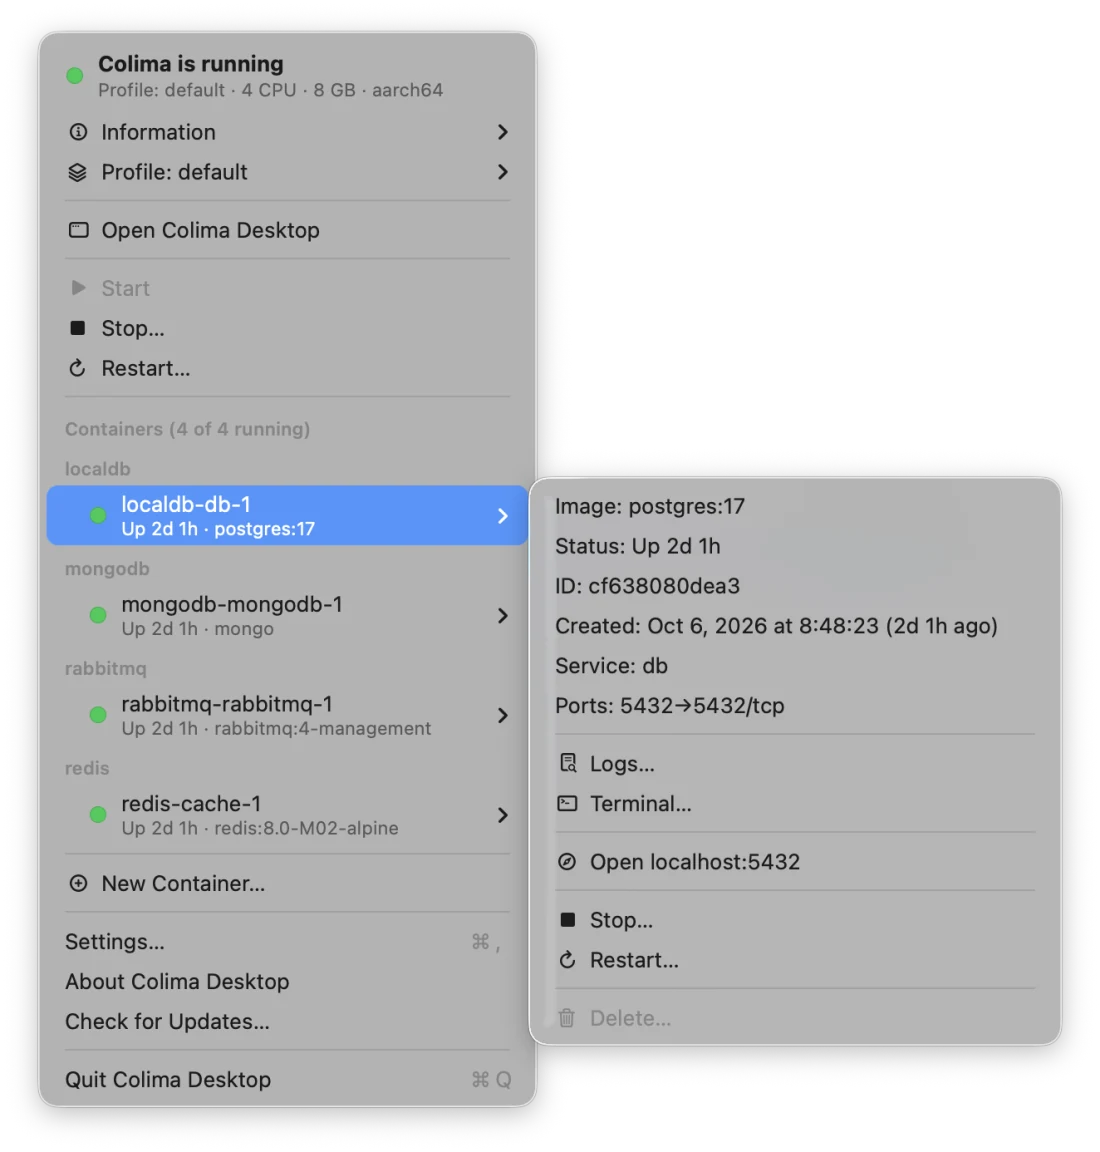
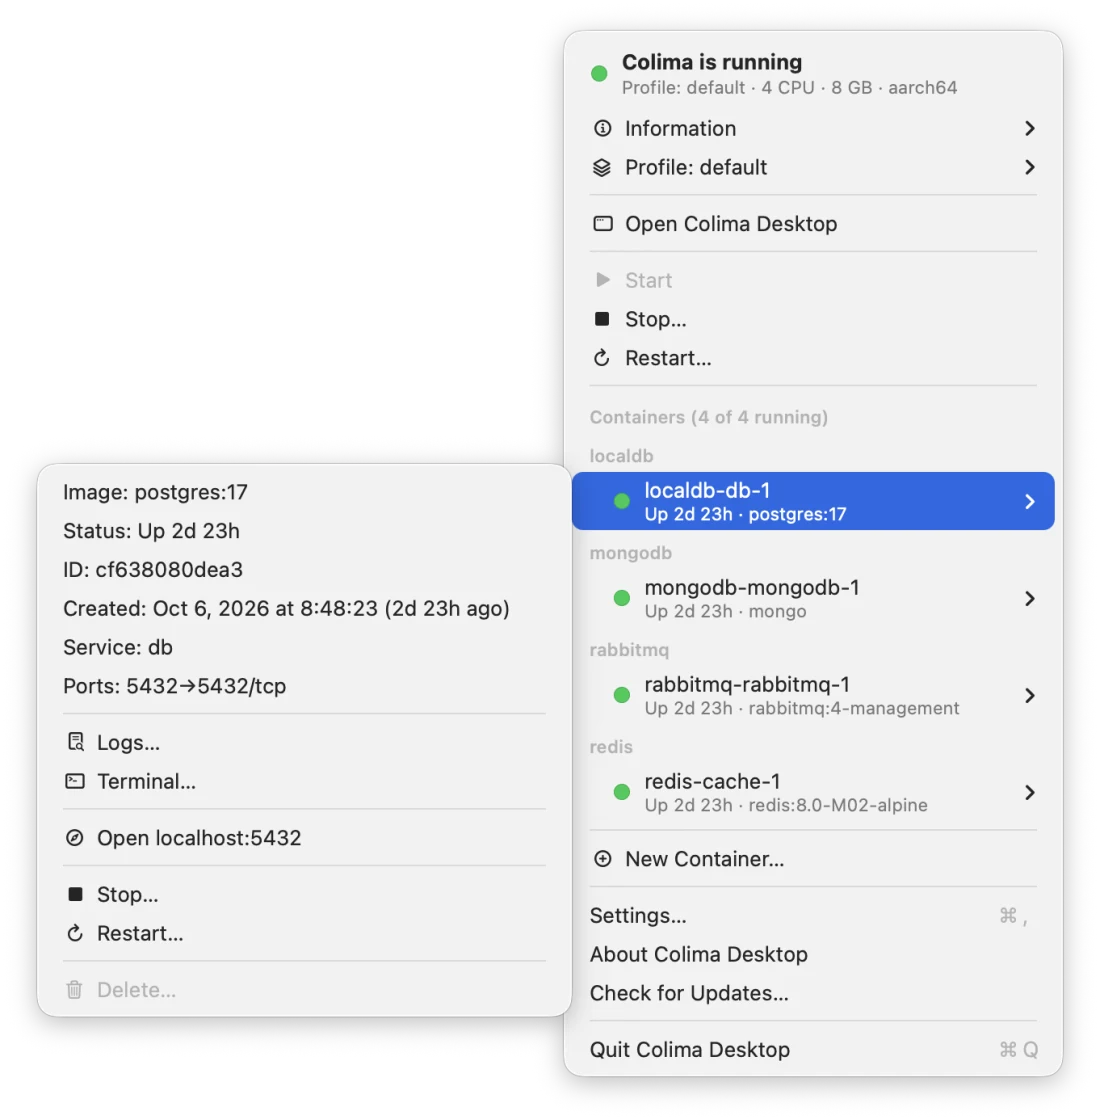
docs(site): lighter menu screenshot
The previous menu shot looked dark because macOS blended the menu with the desktop behind it.

diff --git a/site/index.html b/site/index.html
@@ -174,8 +174,8 @@
       </p>
     </div>
     <figure class="shot">
-      <img src="assets/screenshot-menu.webp" width="550" height="576" loading="lazy"
-           alt="The Colima Desktop menu with the status row, Information, Profile, Open Colima Desktop, the VM actions and four containers; the submenu of localdb-db-1 shows its image, status, ID, ports, Logs, Terminal, Open localhost:5432, Stop, Restart and Delete">
+      <img src="assets/screenshot-menu.webp" width="550" height="560" loading="lazy"
+           alt="The Colima Desktop menu with the status row, Information, Profile, Open Colima Desktop, the VM actions and four containers; the submenu of localdb-db-1, open to the left, shows its image, status, ID, ports, Logs, Terminal, Open localhost:5432, Stop, Restart and Delete">
     </figure>
   </section>
 
